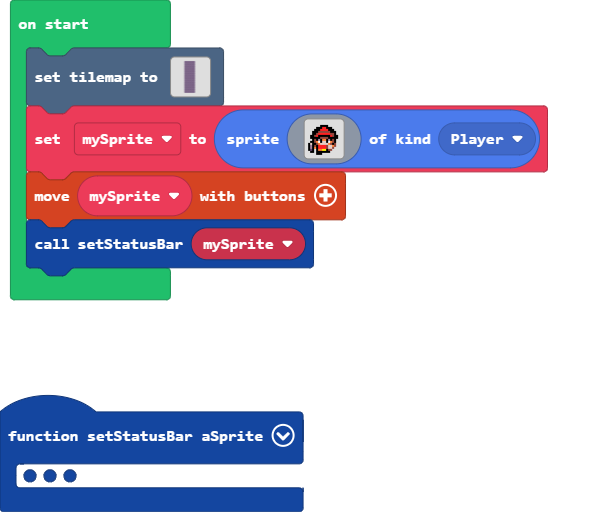
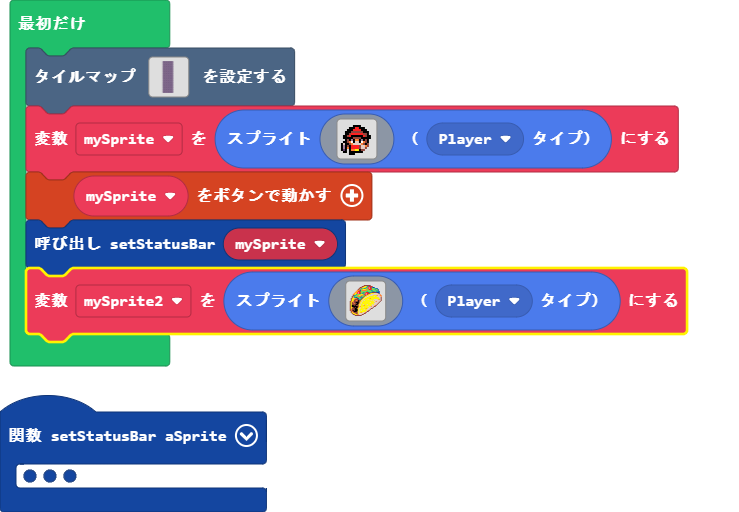
更新 main.blocks, main.ts, images.g.jres, images.g.ts, tilemap.g.ts

diff --git a/images.g.ts b/images.g.ts
@@ -1,4 +1,4 @@
-// Auto-generated code. Do not edit.
+// 自動生成されたコードです。変更しないでください。
 namespace myImages {
 
     helpers._registerFactory("image", function(name: string) {
@@ -21,6 +21,40 @@ f c f . f 4 4 5 5 f e e . . . .
 . f f . f f f f f f f . . . . . 
 . . . . f f f . . . . . . . . . 
 `;
+            case "image1":return img`
+..............eeeeeee...........
+............ee455662e2e.........
+..........ee45556723e2688.......
+.........e46776677232e777668....
+........e46745554772227776778...
+.......4448744444777766777678...
+......4522e7777776777766676668..
+.....4523227766722e666eeeee888..
+....455232e76672322e4555dddd48..
+...44567777554623e455ddddddddd4.
+...e66774554477e455dddd55554dd44
+..e46777444677e55dd55555d55dddd4
+..e5668677666e5dd555555555555dde
+.e45544e8776e5d555554555555555de
+.e554eeee66e5d5555d55555dddd54de
+.e55ee44fee5d5d555555d5d5dddddde
+e454eeeefe45d55555555555dd4ddde.
+e5e4eefffe5d55555555d5555dddde..
+e5ee4eeff45d555555555555dddde...
+e5eeeeffe5d55d555d5555d5ddde....
+e5ffefeee5d55545555555ddd4e.....
+e5ffffffe545555555d5d4ddee......
+e54efeff45d55d55555dddde........
+e5eeeffe5dd5555545dddee.........
+e4eeefff5d5555d55ddde...........
+e4efefff5d5d55555d4e............
+.e4efffe5d555555dee.............
+.e54eeee5d545dd4e...............
+..e554ee5dddddee................
+...ee5544dddee..................
+.....eeeeeee....................
+................................
+`;
         }
         return null;
     })
@@ -33,4 +67,4 @@ f c f . f 4 4 5 5 f e e . . . .
     })
 
 }
-// Auto-generated code. Do not edit.
+// 自動生成されたコードです。変更しないでください。

diff --git a/main.ts b/main.ts
@@ -25,3 +25,37 @@ let mySprite = sprites.create(img`
     `, SpriteKind.Player)
 controller.moveSprite(mySprite)
 setStatusBar(mySprite)
+let mySprite2 = sprites.create(img`
+    ..............eeeeeee...........
+    ............ee455662e2e.........
+    ..........ee45556723e2688.......
+    .........e46776677232e777668....
+    ........e46745554772227776778...
+    .......4448744444777766777678...
+    ......4522e7777776777766676668..
+    .....4523227766722e666eeeee888..
+    ....455232e76672322e4555dddd48..
+    ...44567777554623e455ddddddddd4.
+    ...e66774554477e455dddd55554dd44
+    ..e46777444677e55dd55555d55dddd4
+    ..e5668677666e5dd555555555555dde
+    .e45544e8776e5d555554555555555de
+    .e554eeee66e5d5555d55555dddd54de
+    .e55ee44fee5d5d555555d5d5dddddde
+    e454eeeefe45d55555555555dd4ddde.
+    e5e4eefffe5d55555555d5555dddde..
+    e5ee4eeff45d555555555555dddde...
+    e5eeeeffe5d55d555d5555d5ddde....
+    e5ffefeee5d55545555555ddd4e.....
+    e5ffffffe545555555d5d4ddee......
+    e54efeff45d55d55555dddde........
+    e5eeeffe5dd5555545dddee.........
+    e4eeefff5d5555d55ddde...........
+    e4efefff5d5d55555d4e............
+    .e4efffe5d555555dee.............
+    .e54eeee5d545dd4e...............
+    ..e554ee5dddddee................
+    ...ee5544dddee..................
+    .....eeeeeee....................
+    ................................
+    `, SpriteKind.Player)

diff --git a/tilemap.g.ts b/tilemap.g.ts
@@ -1,4 +1,4 @@
-// Auto-generated code. Do not edit.
+// 自動生成されたコードです。変更しないでください。
 namespace myTiles {
     //% fixedInstance jres blockIdentity=images._tile
     export const transparency16 = image.ofBuffer(hex``);
@@ -70,4 +70,4 @@ namespace myTiles {
     })
 
 }
-// Auto-generated code. Do not edit.
+// 自動生成されたコードです。変更しないでください。
